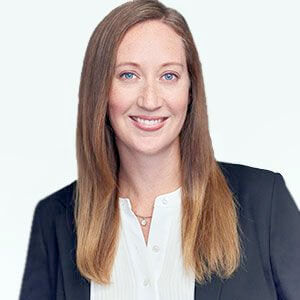
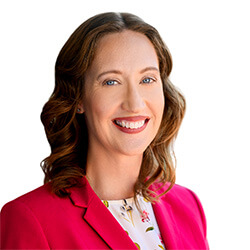
Leadership: update Laura’s headshot [fix #14506]

diff --git a/bedrock/mozorg/templates/mozorg/about/leadership/includes/executive.html b/bedrock/mozorg/templates/mozorg/about/leadership/includes/executive.html
@@ -15,7 +15,18 @@ file, You can obtain one at https://mozilla.org/MPL/2.0/.
   <div class="gallery mgmt-corp">
     <article id="laura-chambers" data-id="laura-chambers" class="vcard has-bio" itemscope itemtype="http://schema.org/Person">
       <figure class="headshot">
-        <img class="photo" src="{{ static('img/mozorg/about/leadership/laura-chambers.jpg') }}" alt="" itemprop="image" width="160" height="160">
+        {{ resp_img(
+          url='img/mozorg/about/leadership/laura-chambers.jpg',
+          srcset={
+            'img/mozorg/about/leadership/laura-chambers-high-res.jpg': '2x'
+          },
+          optional_attributes={
+            'width': '160',
+            'height': '160',
+            'class': 'photo',
+            'itemprop': 'image'
+          }
+        ) }}
         <figcaption><h4 class="fn" itemprop="name">Laura Chambers</h4></figcaption>
       </figure>
 
@@ -23,6 +34,8 @@ file, You can obtain one at https://mozilla.org/MPL/2.0/.
         <p class="title" itemprop="jobTitle">Chief Executive Officer</p>
 
         <ul class="utility">
+          <li><a class="file" rel="external"
+            href="https://assets.mozilla.net/leadership/mozilla-laura-chambers.zip">Download photos</a></li>
           <li><a class="link" href="{{ url('mozorg.about.leadership.index') }}#laura-chambers">Link to this bio</a></li>
         </ul>
       </div>
@@ -76,7 +89,7 @@ file, You can obtain one at https://mozilla.org/MPL/2.0/.
       </div>
     </article>
 
-      <article id="ian-carmichael" data-id="ian-carmichael" class="vcard has-bio" itemscope itemtype="http://schema.org/Person">
+    <article id="ian-carmichael" data-id="ian-carmichael" class="vcard has-bio" itemscope itemtype="http://schema.org/Person">
     <figure class="headshot">
       {{ resp_img(
         url='img/mozorg/about/leadership/ian-carmichael.jpg',
